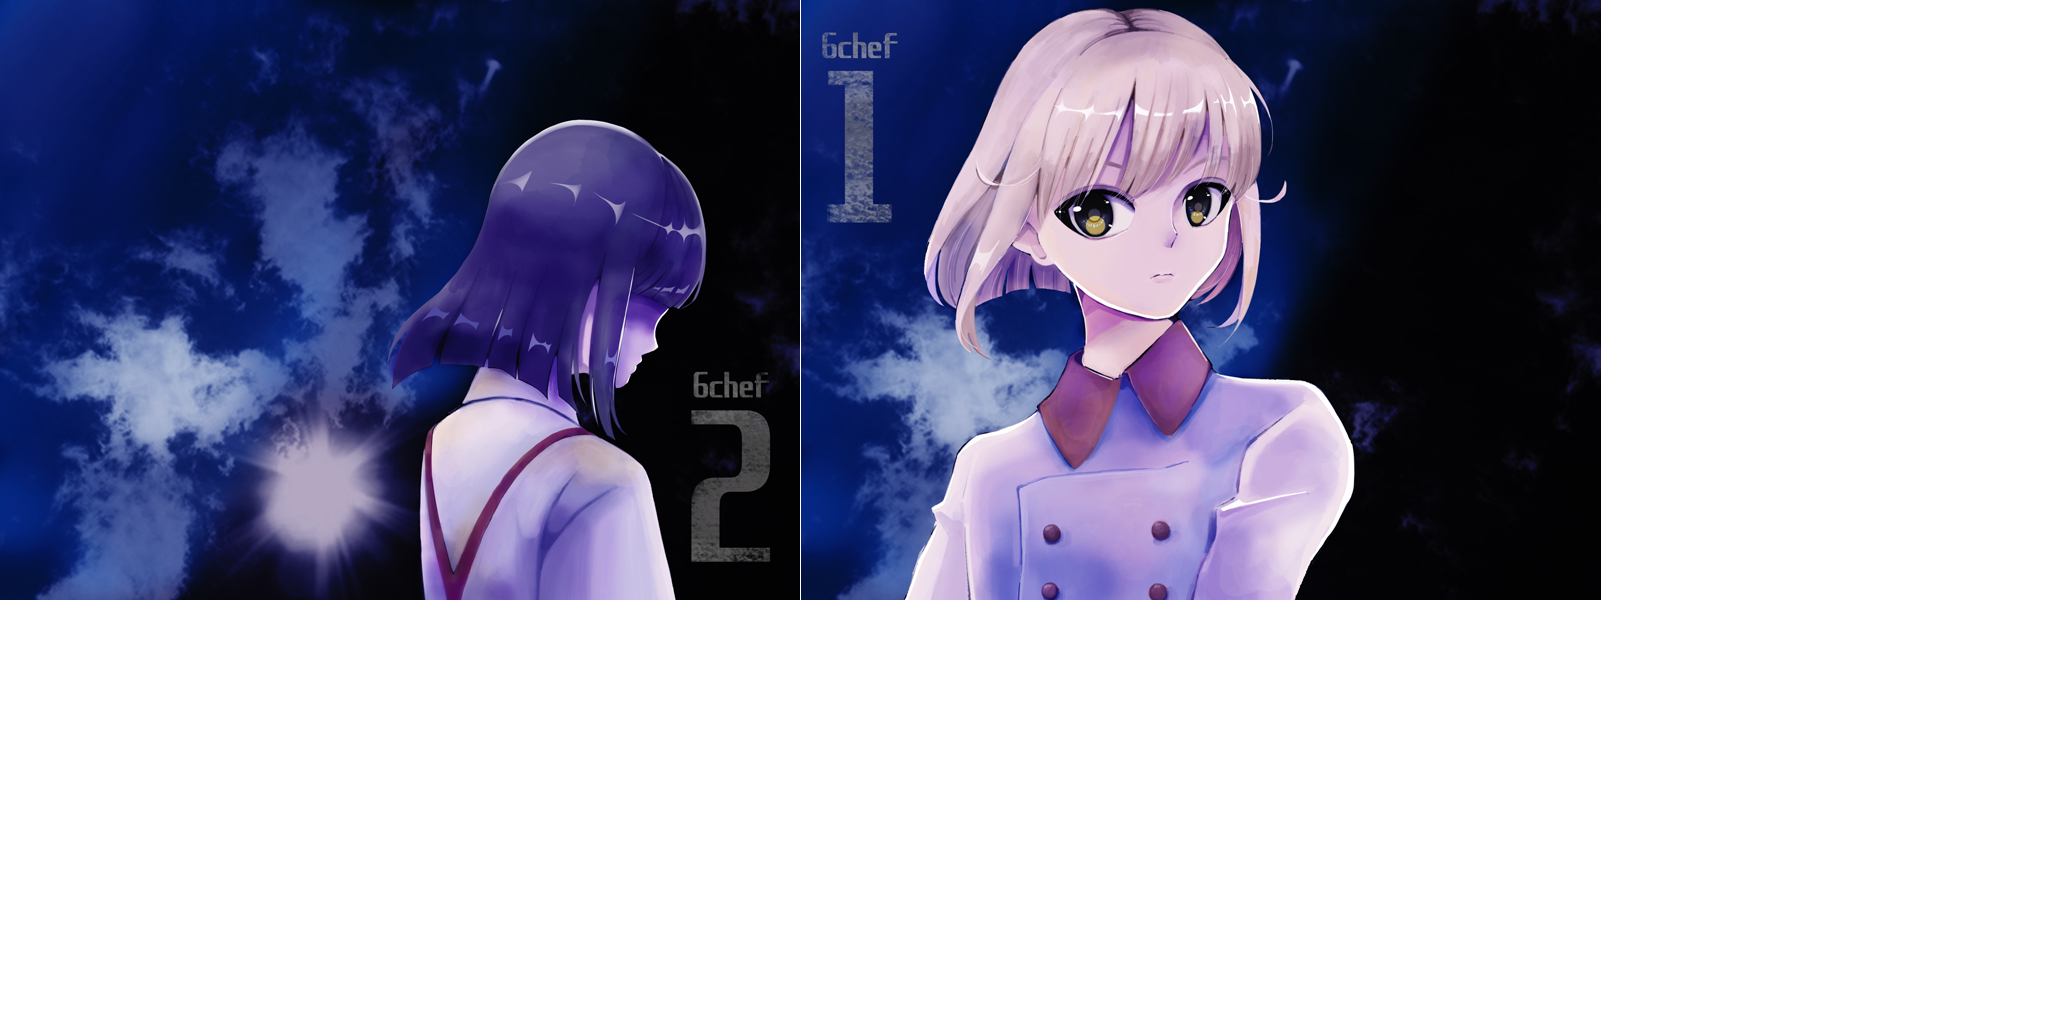
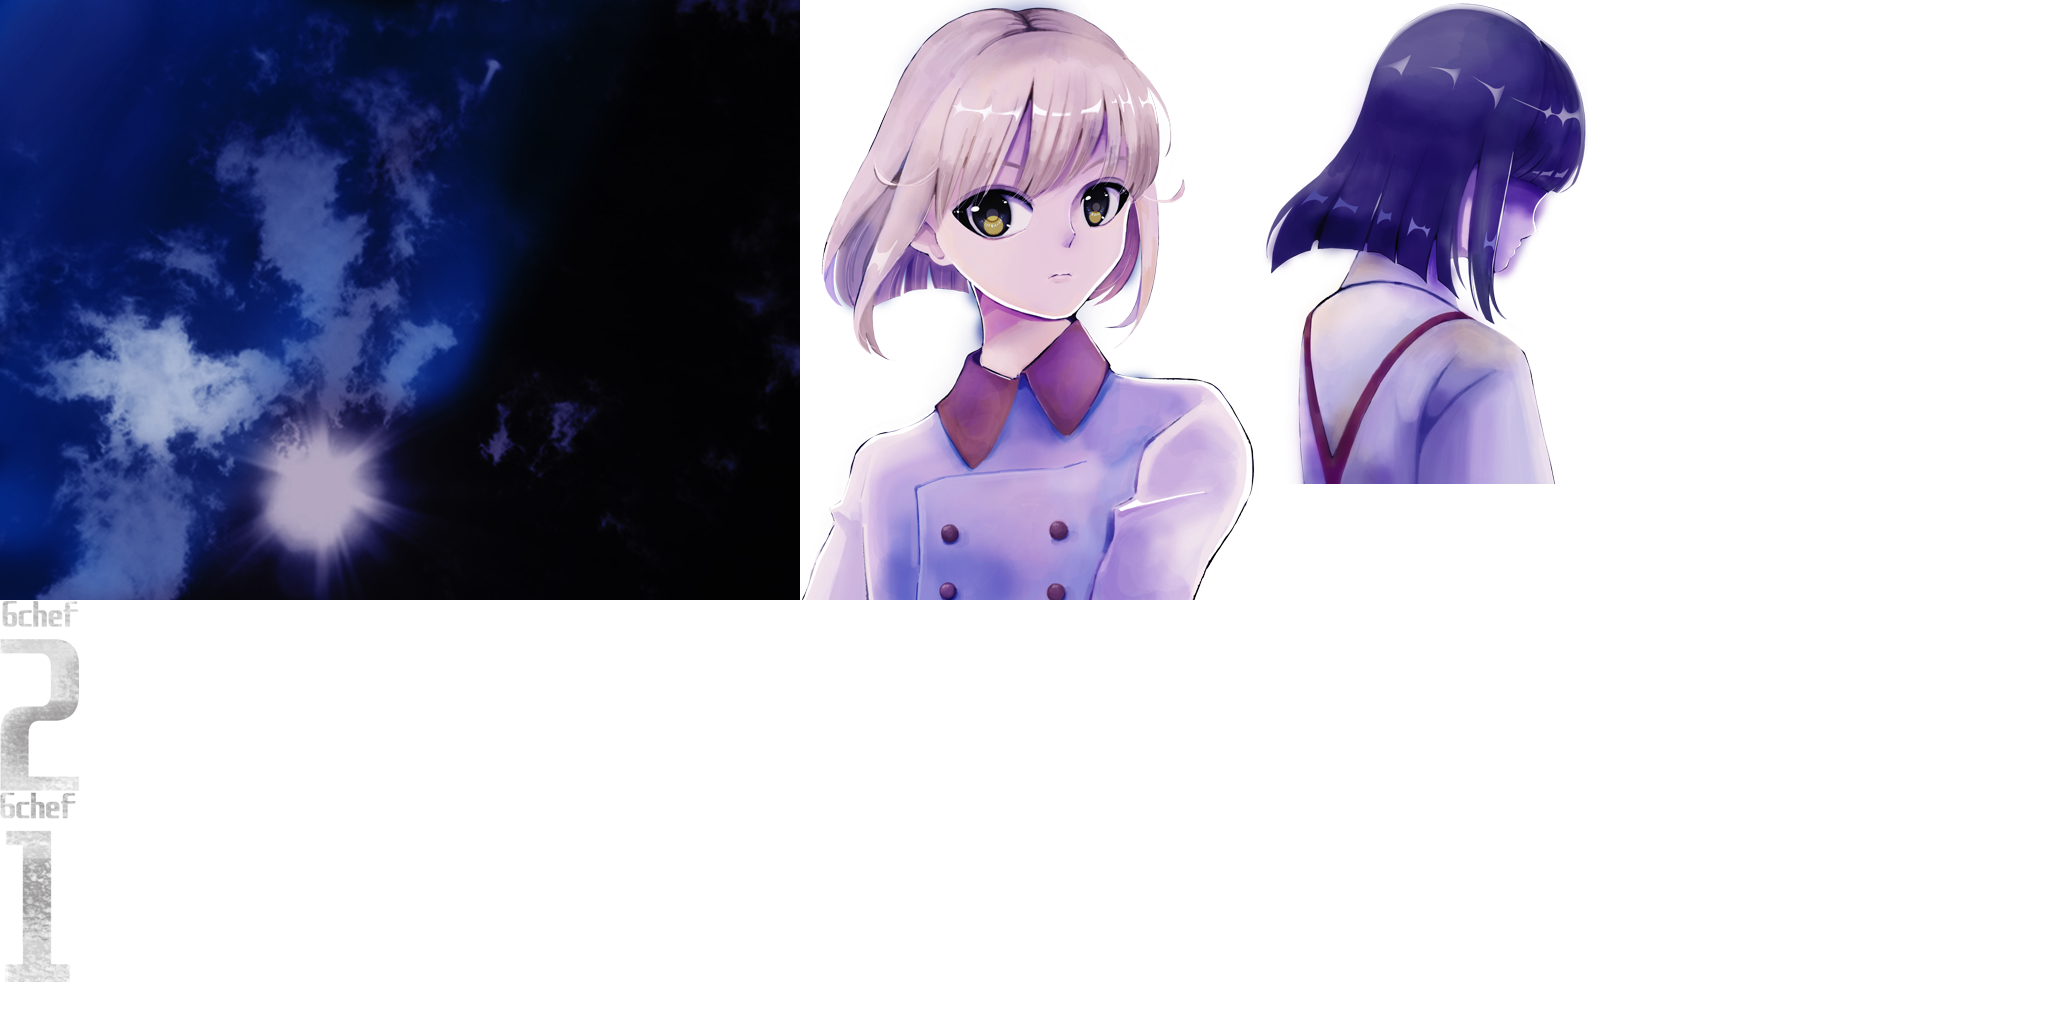
前のリポジトリからの続き

Changed region(s): [[0.1875, 0.0, 0.7812, 0.5938], [0.0, 0.5938, 0.0625, 0.9688]]

diff --git a/Classes/Layers/Menu/TitleSelectMenuLayer.cpp b/Classes/Layers/Menu/TitleSelectMenuLayer.cpp
@@ -8,6 +8,13 @@
 
 #include "Layers/Menu/TitleSelectMenuLayer.h"
 
+#include "Layers/EventListener/EventListenerKeyboardLayer.h"
+
+// 定数
+const string TitleSelectMenuLayer::TITLE_NODE_NAME { "title" };
+const string TitleSelectMenuLayer::CURSOR_NODE_NAME { "cursor" };
+const string TitleSelectMenuLayer::CHARA_NODE_NAME { "chara" };
+
 // コンストラクタ
 TitleSelectMenuLayer::TitleSelectMenuLayer() { FUNCLOG }
 
@@ -19,34 +26,118 @@ bool TitleSelectMenuLayer::init(function<void(int)> onSelectTitle)
 {
     if (!MenuLayer::init(2, 1)) return false;
     _onSelectTitle = onSelectTitle;
-    Sprite* bg { Sprite::createWithSpriteFrameName("title_select_1.png") };
+    
+    // 背景
+    Sprite* bg { Sprite::createWithSpriteFrameName("title_select_bg.png") };
     Size bgSize { bg->getContentSize() };
     bg->setPosition(bgSize.width / 2, bgSize.height / 2);
     this->addChild(bg);
+    _bg = bg;
+    
+    // 2レイヤー
+    Layer* layer2 { Layer::create() };
+    layer2->setCascadeOpacityEnabled(true);
+    this->addChild(layer2);
+    _layer2 = layer2;
+    
+    // 1レイヤー
+    Layer* layer1 { Layer::create() };
+    layer1->setCascadeOpacityEnabled(true);
+    this->addChild(layer1);
+    _layer1 = layer1;
+    
+    this->menuObjects.push_back(_layer1);
+    this->menuObjects.push_back(_layer2);
+    
+    // 1タイトル名
+    Sprite* title1 { Sprite::createWithSpriteFrameName("title_select_1.png") };
+    title1->setPosition(60, 470);
+    title1->setName(TITLE_NODE_NAME);
+    layer1->addChild(title1);
+    
+    // 2タイトル名
+    Sprite* title2 { Sprite::createWithSpriteFrameName("title_select_2.png") };
+    title2->setPosition(730, 130);
+    title2->setName(TITLE_NODE_NAME);
+    layer2->addChild(title2);
+    
+    // 孫一
+    Sprite* magoichi { Sprite::createWithSpriteFrameName("title_select_magoichi.png") };
+    Size magoSize { magoichi->getContentSize() };
+    magoichi->setPosition(magoSize.width / 2 + 80, magoSize.height / 2);
+    magoichi->setName(CHARA_NODE_NAME);
+    layer1->addChild(magoichi);
+    
+    // 雪
+    Sprite* yuki { Sprite::createWithSpriteFrameName("title_select_yuki.png") };
+    Size yukiSize { yuki->getContentSize() };
+    yuki->setPosition(yukiSize.width / 2 + 380, yukiSize.height / 2);
+    yuki->setName(CHARA_NODE_NAME);
+    layer2->addChild(yuki);
+    
+    // カーソル
+    Sprite* cursor1 { Sprite::createWithSpriteFrameName("light.png") };
+    cursor1->setBlendFunc(BlendFunc{GL_SRC_COLOR, GL_ONE});
+    cursor1->setPosition(title1->getPosition());
+    cursor1->setName(CURSOR_NODE_NAME);
+    layer1->addChild(cursor1);
+    
+    Sprite* cursor2 { Sprite::createWithSpriteFrameName("light.png") };
+    cursor2->setBlendFunc(BlendFunc{GL_SRC_COLOR, GL_ONE});
+    cursor2->setPosition(title2->getPosition());
+    cursor2->setName(CURSOR_NODE_NAME);
+    layer2->addChild(cursor2);
+    
+    bg->setOpacity(0);
+    layer1->setOpacity(0);
+    layer2->setOpacity(0);
+    cursor1->setOpacity(0);
+    cursor2->setOpacity(0);
+    
     return true;
 }
 
 // 表示
 void TitleSelectMenuLayer::show()
 {
-    
+    _bg->runAction(FadeIn::create(0.2f));
+    _layer1->runAction(Sequence::createWithTwoActions(DelayTime::create(0.2f), FadeIn::create(0.3f)));
+    _layer2->runAction(Sequence::createWithTwoActions(DelayTime::create(0.4f), FadeIn::create(0.4f)));
+    this->runAction(Sequence::createWithTwoActions(DelayTime::create(0.8f), CallFunc::create(CC_CALLBACK_0(TitleSelectMenuLayer::onShowAnimationFinished, this))));
 }
 
 // 非表示
 void TitleSelectMenuLayer::hide()
 {
-    
+
 }
 
 // インデックスが変わった時
 // カーソルを移動させたりする
 void TitleSelectMenuLayer::onIndexChanged(int newIdx, bool sound)
 {
-    
+    for (int idx {0}; idx < this->menuObjects.size(); idx++) {
+        Node* node { this->menuObjects[newIdx] };
+        Node* cursorNode { node->getChildByName(CURSOR_NODE_NAME) };
+        if (idx == newIdx) {
+            cursorNode->runAction(FadeIn::create(0.2f));
+            node->runAction(FadeIn::create(0.2f));
+        } else {
+            cursorNode->runAction(FadeOut::create(0.1f));
+            node->runAction(FadeOut::create(0.1f));
+        }
+    }
 }
 
 // 決定キー押した時
 void TitleSelectMenuLayer::onEnterKeyPressed(int idx)
 {
     
+}
+
+// 表示アニメーション終了時
+void TitleSelectMenuLayer::onShowAnimationFinished()
+{
+    this->listenerKeyboard->setEnabled(true);
+    this->onIndexChanged(0, false);
 }

diff --git a/Classes/Layers/Menu/TitleSelectMenuLayer.h b/Classes/Layers/Menu/TitleSelectMenuLayer.h
@@ -13,6 +13,11 @@
 
 class TitleSelectMenuLayer : public MenuLayer
 {
+// 定数
+private:
+    static const string TITLE_NODE_NAME;
+    static const string CURSOR_NODE_NAME;
+    static const string CHARA_NODE_NAME;
 // クラスメソッド
 public:
     CREATE_FUNC_WITH_PARAM(TitleSelectMenuLayer, function<void(int)>)
@@ -26,9 +31,13 @@ private:
     virtual bool init(function<void(int)> onSelectTitle);
     virtual void onIndexChanged(int newIdx, bool sound = true) override;
     virtual void onEnterKeyPressed(int idx) override;
-    
+    void onShowAnimationFinished();
+// インスタンス変数
 private:
-    function<void(int)> _onSelectTitle = nullptr;
+    function<void(int)> _onSelectTitle { nullptr };
+    Sprite* _bg { nullptr };
+    Layer* _layer1 { nullptr };
+    Layer* _layer2 { nullptr };
 };
 
 #endif /* TitleSelectMenuLayer_h */

diff --git a/Classes/Scenes/TitleSelectScene.cpp b/Classes/Scenes/TitleSelectScene.cpp
@@ -32,6 +32,7 @@ void TitleSelectScene::onPreloadFinished(LoadingLayer* loadingLayer)
     TitleSelectMenuLayer* menuLayer { TitleSelectMenuLayer::create(CC_CALLBACK_1(TitleSelectScene::onTitleSelected, this)) };
     this->addChild(menuLayer);
     loadingLayer->onLoadFinished();
+    menuLayer->show();
 }
 
 // タイトル選択された時
